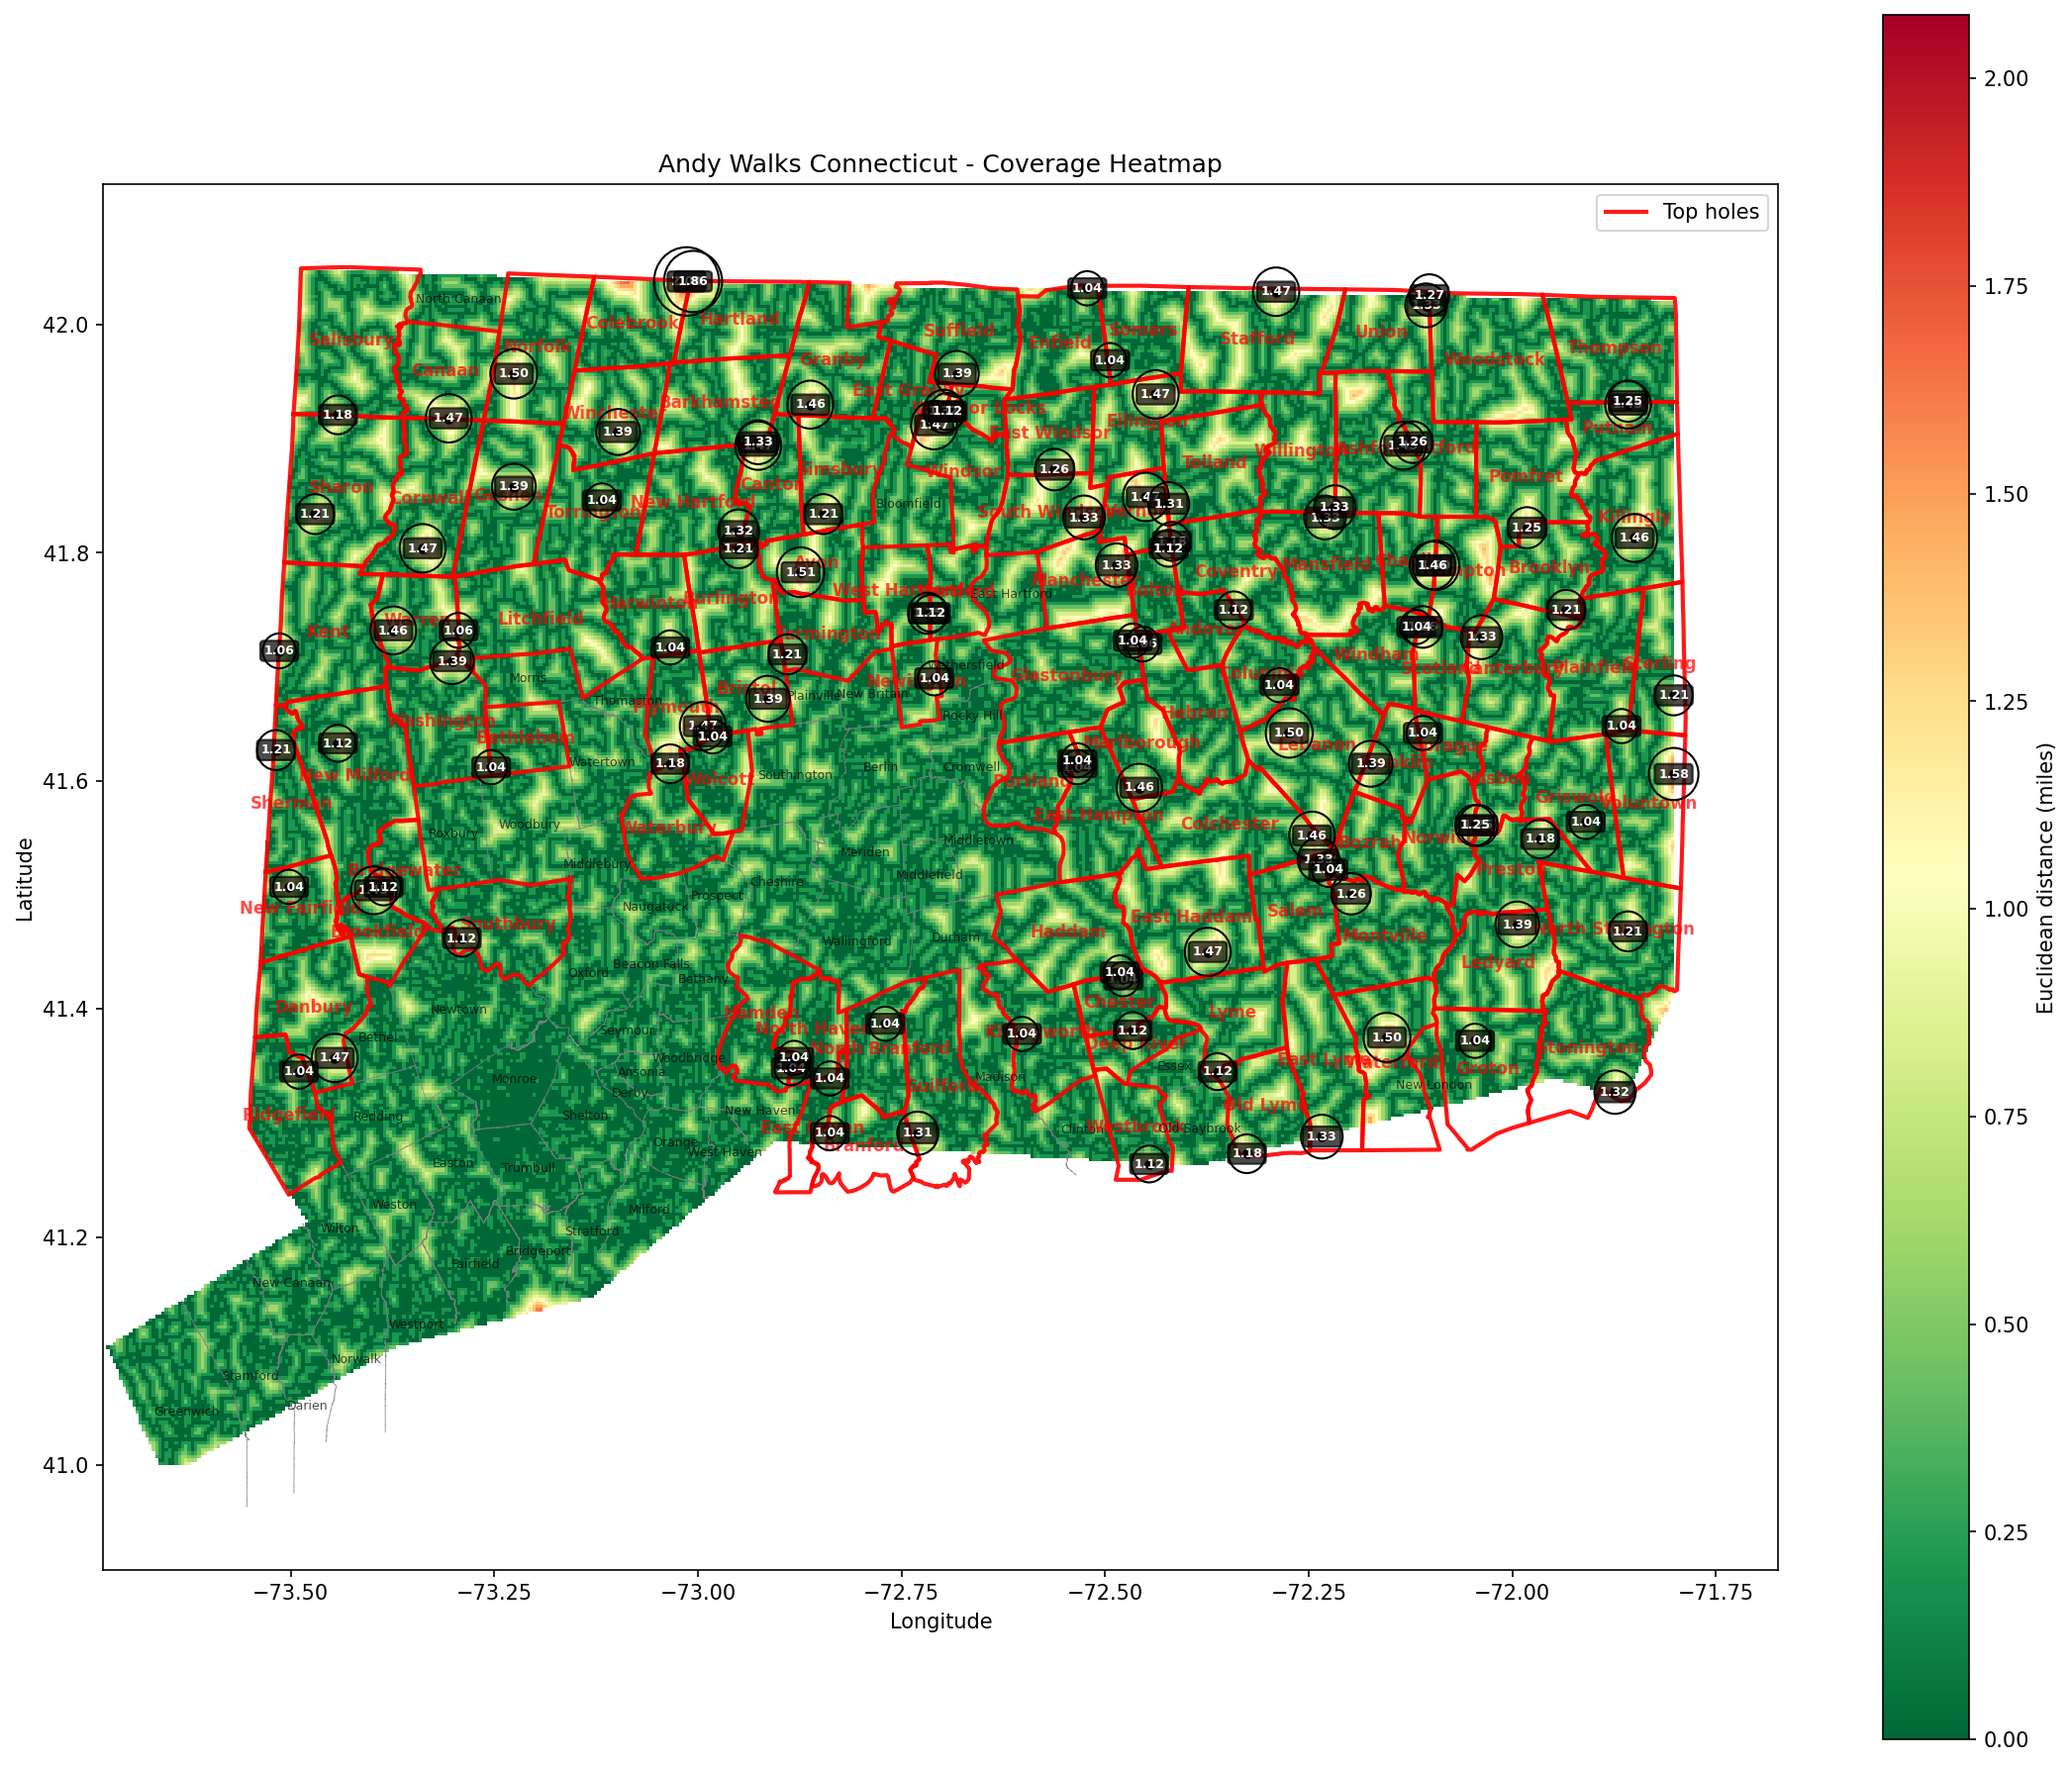
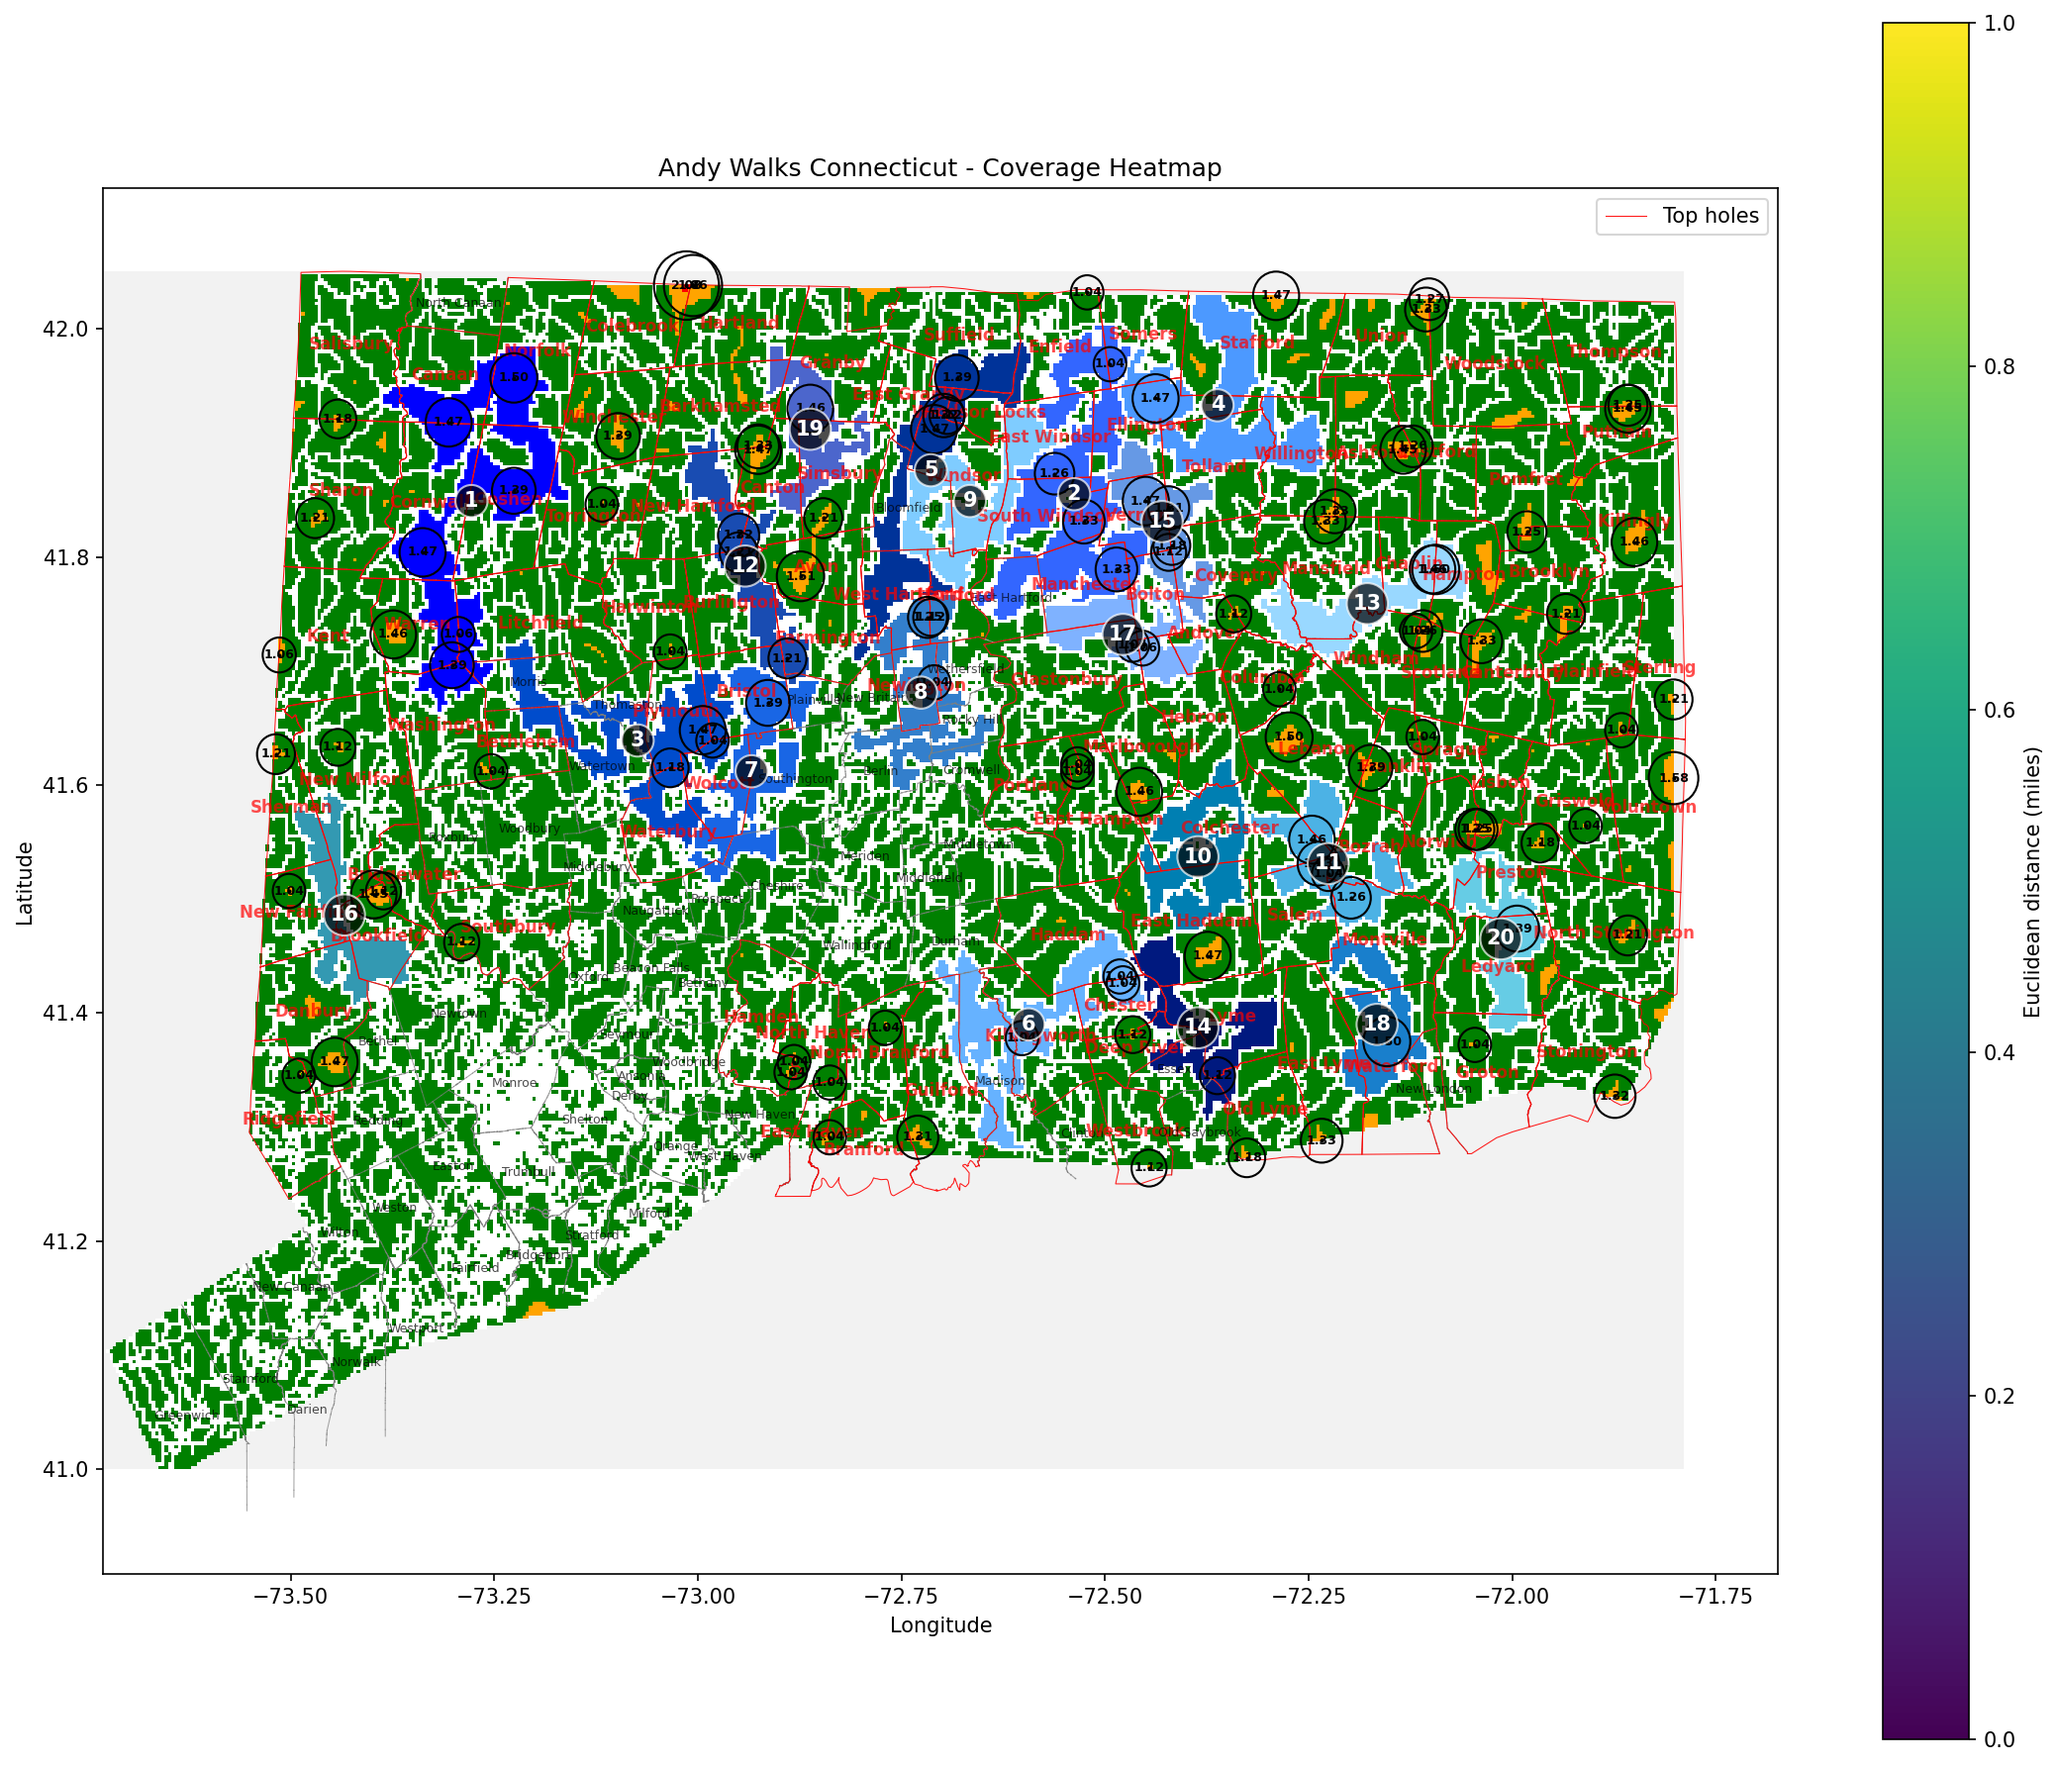
Add numeric labels (1-20) to top 20 largest unwalked areas on heatmap
Each of the 20 largest contiguous unwalked areas now displays a numeric label at its centroid, ranked from 1 (largest) to 20. Labels are white text with black circular backgrounds for visibility.

Files:
 M src/plotmap/heatmap.png
 M src/plotmap/heatmap.py

diff --git a/src/plotmap/heatmap.py b/src/plotmap/heatmap.py
@@ -11,6 +11,7 @@ import urllib.request
 import numpy as np
 import pandas as pd
 import matplotlib.pyplot as plt
+from matplotlib.colors import ListedColormap, BoundaryNorm
 from scipy import ndimage
 from shapely.geometry import shape, LineString, MultiLineString
 from shapely import contains_xy
@@ -319,6 +320,102 @@ def find_towns_with_largest_holes(distance_grid, ct_bbox=CT_BBOX):
     return top_125_towns, hole_centers
 
 
+def find_largest_unwalked_areas(distance_grid, ct_bbox=CT_BBOX):
+    """Find the 5 largest contiguous areas with distance < 1.0 miles (green only).
+
+    Uses 8-connectivity (includes diagonal neighbors).
+    Returns top_5 areas and labeled_grid for visualization.
+    """
+    # Create mask for unwalked areas (distance > 0, i.e., not walked)
+    unwalked_mask = (distance_grid > 0) & ~np.isnan(distance_grid)
+
+    # Define orthogonal connectivity (4-neighbor only: north, south, east, west)
+    orthogonal_structure = ndimage.generate_binary_structure(2, 1)
+
+    # Label connected components with orthogonal connectivity
+    labeled_grid, num_features = ndimage.label(unwalked_mask, structure=orthogonal_structure)
+
+    if num_features == 0:
+        print("No unwalked areas found (all areas have been walked)")
+        return [], labeled_grid
+
+    # Compute area of each component
+    lat_step_miles = LAT_STEP * MILES_PER_DEGREE_LAT
+    lon_step_miles = LON_STEP * MILES_PER_DEGREE_LON
+    sq_miles_per_cell = lat_step_miles * lon_step_miles
+
+    areas = []
+    for label_id in range(1, num_features + 1):
+        cell_mask = labeled_grid == label_id
+        cell_count = np.sum(cell_mask)
+        area_sq_miles = cell_count * sq_miles_per_cell
+
+        # Find centroid (center) of area
+        rows, cols = np.where(cell_mask)
+        center_row = int(np.mean(rows))
+        center_col = int(np.mean(cols))
+
+        # Convert to lat/lon
+        lat_min = ct_bbox['lat_min']
+        lon_min = ct_bbox['lon_min']
+        center_lat = lat_min + center_row * LAT_STEP
+        center_lon = lon_min + center_col * LON_STEP
+
+        areas.append({
+            'label_id': label_id,
+            'cell_count': cell_count,
+            'area_sq_miles': area_sq_miles,
+            'center_lat': center_lat,
+            'center_lon': center_lon
+        })
+
+    # Sort by area descending
+    areas.sort(key=lambda x: x['area_sq_miles'], reverse=True)
+    top_20 = areas[:20]
+
+    # Create color palette of 20 blue-ish shades
+    blue_palette = [
+        (0.0, 0.0, 1.0),      # 1: pure blue
+        (0.2, 0.4, 1.0),      # 2: light blue
+        (0.0, 0.3, 0.8),      # 3: darker blue
+        (0.3, 0.6, 1.0),      # 4: lighter blue
+        (0.0, 0.2, 0.6),      # 5: deep blue
+        (0.4, 0.7, 1.0),      # 6: pale blue
+        (0.1, 0.4, 0.9),      # 7: medium blue
+        (0.2, 0.5, 0.8),      # 8: steel blue
+        (0.5, 0.8, 1.0),      # 9: sky blue
+        (0.0, 0.5, 0.7),      # 10: teal-blue
+        (0.3, 0.7, 0.9),      # 11: cornflower
+        (0.1, 0.3, 0.7),      # 12: navy-ish
+        (0.6, 0.85, 1.0),     # 13: very light blue
+        (0.0, 0.1, 0.5),      # 14: midnight blue
+        (0.4, 0.6, 0.9),      # 15: periwinkle
+        (0.2, 0.6, 0.7),      # 16: cyan-blue
+        (0.5, 0.7, 1.0),      # 17: powder blue
+        (0.1, 0.5, 0.8),      # 18: ocean blue
+        (0.3, 0.4, 0.8),      # 19: slate blue
+        (0.4, 0.8, 0.9),      # 20: light cyan
+    ]
+
+    for i, area in enumerate(top_20):
+        area['color'] = blue_palette[i]
+
+    print("\n" + "="*100)
+    print("Top 20 Largest Contiguous Unwalked Areas (distance > 0.0 mi)")
+    print("="*100)
+    print(f"{'Rank':>5} | {'Cell Count':>12} | {'Area (sq mi)':>15} | {'Center Lat':>12} | {'Center Lon':>12}")
+    print("-"*100)
+
+    for rank, area in enumerate(top_20, 1):
+        print(f"{rank:>5} | {area['cell_count']:>12} | {area['area_sq_miles']:>15.2f} | "
+              f"{area['center_lat']:>12.4f} | {area['center_lon']:>12.4f}")
+
+    print("="*100)
+    print(f"Total contiguous unwalked areas found: {num_features}\n")
+
+    return top_20, labeled_grid
+
+
 def print_distance_summary(distance_grid):
     """Print summary of number of grid cells at each Euclidean distance (in miles)."""
     # Flatten and remove NaN values
@@ -411,19 +508,61 @@ def get_town_boundary_lines(town_names):
     return boundary_lines
 
 
-def render_heatmap(distance_grid, extent, walked_lines=None, unwalked_lines=None, highlight_towns=None, hole_centers=None):
+def render_heatmap(distance_grid, extent, walked_lines=None, unwalked_lines=None, highlight_towns=None, hole_centers=None, top_5_areas=None, labeled_grid=None):
     """Render distance grid as heatmap with optional town boundaries and hole centers."""
     fig, ax = plt.subplots(figsize=(15, 12))
 
     # Flip vertically so north is up (matches find_largest_unwalked.py pattern)
     distance_grid_flipped = distance_grid[::-1]
 
-    # Render with custom colormap: green (visited) to red (far)
+    # Build RGB array directly: color each cell based on distance thresholds
+    # white (distance=0) -> green (<1.0) -> orange (1.0-1.8) -> red (>1.8)
+    rgb_map = {
+        'white': np.array([1.0, 1.0, 1.0]),      # white for distance=0
+        'green': np.array([0.0, 0.502, 0.0]),    # green for <1.0
+        'orange': np.array([1.0, 0.647, 0.0]),   # orange for 1.0-1.8
+        'red': np.array([1.0, 0.0, 0.0]),        # red for >1.8
+    }
+
+    # Create mapping of label IDs to colors for top 20 areas
+    label_to_color = {}
+    if top_5_areas and labeled_grid is not None:
+        for area in top_5_areas:
+            label_to_color[area['label_id']] = area.get('color', (0.0, 0.0, 1.0))
+
+    # Build RGB grid in original (non-flipped) orientation
+    rgb_grid = np.zeros((*distance_grid.shape, 3))
+
+    for i in range(distance_grid.shape[0]):
+        for j in range(distance_grid.shape[1]):
+            dist = distance_grid[i, j]
+
+            # Check if this cell is in one of the top 20 areas and get its color
+            cell_label = labeled_grid[i, j] if labeled_grid is not None else 0
+            cell_color = label_to_color.get(cell_label, None)
+
+            if cell_color is not None:
+                # Use assigned blue shade for this unwalked area
+                rgb_grid[i, j] = np.array(cell_color)
+            elif np.isnan(dist):
+                # Outside CT: light gray
+                rgb_grid[i, j] = np.array([0.95, 0.95, 0.95])
+            elif dist == 0:
+                rgb_grid[i, j] = rgb_map['white']
+            elif dist < 1.0:
+                rgb_grid[i, j] = rgb_map['green']
+            elif dist < 1.8:
+                rgb_grid[i, j] = rgb_map['orange']
+            else:
+                rgb_grid[i, j] = rgb_map['red']
+
+    # Flip for display (north up)
+    rgb_grid = rgb_grid[::-1]
+
     im = ax.imshow(
-        distance_grid_flipped,
+        rgb_grid,
         extent=extent,
         aspect=1.4,
-        cmap='RdYlGn_r',
         interpolation='nearest'
     )
 
@@ -446,7 +585,7 @@ def render_heatmap(distance_grid, extent, walked_lines=None, unwalked_lines=None
         for coords in highlight_lines:
             lons = [c[0] for c in coords]
             lats = [c[1] for c in coords]
-            ax.plot(lons, lats, color='red', linewidth=2, alpha=0.9, label='Top holes' if coords == highlight_lines[0] else '')
+            ax.plot(lons, lats, color='red', linewidth=0.5, alpha=0.9, label='Top holes' if coords == highlight_lines[0] else '')
 
     # Mark centers of largest holes with black dots and circles (only for holes > 1.0 miles)
     if hole_centers:
@@ -461,13 +600,25 @@ def render_heatmap(distance_grid, extent, walked_lines=None, unwalked_lines=None
             ellipse = Ellipse((hole_lon, hole_lat), width=2*radius_lon, height=2*radius_lat,
                             fill=False, edgecolor='black', linewidth=1.0, zorder=10)
             ax.add_patch(ellipse)
-            # Draw black dot at center
-            ax.plot(hole_lon, hole_lat, 'ko', markersize=4, markerfacecolor='black', markeredgecolor='black', zorder=11)
-            # Add distance text inside the circle
+            # Draw small dot at center
+            ax.plot(hole_lon, hole_lat, 'ko', markersize=1, markerfacecolor='black', markeredgecolor='black', zorder=11)
+            # Add distance text inside the circle with transparent background
             ax.text(hole_lon, hole_lat, f'{max_dist_miles:.2f}', fontsize=6,
-                    color='white', weight='bold', ha='center', va='center',
-                    bbox=dict(boxstyle='round,pad=0.3', facecolor='black', alpha=0.7),
+                    color='black', weight='bold', ha='center', va='center',
+                    bbox=dict(boxstyle='round,pad=0.3', facecolor='white', alpha=0.0, edgecolor='none'),
                     zorder=12)
+
+    # Add numeric labels (1-20) to top 20 unwalked areas at their centroids
+    if top_5_areas and labeled_grid is not None:
+        lat_min = CT_BBOX['lat_min']
+        lon_min = CT_BBOX['lon_min']
+        for rank, area in enumerate(top_5_areas, 1):
+            center_lat = area['center_lat']
+            center_lon = area['center_lon']
+            ax.text(center_lon, center_lat, str(rank), fontsize=10, color='white',
+                    weight='bold', ha='center', va='center',
+                    bbox=dict(boxstyle='circle,pad=0.3', facecolor='black', alpha=0.7, edgecolor='white', linewidth=1),
+                    zorder=15)
 
     # Add town name labels
     add_town_labels(ax, highlight_towns)
@@ -502,14 +653,17 @@ def main():
     # Print distance summary
     print_distance_summary(distance_grid)
 
+    # Find largest contiguous unwalked areas
+    top_20_areas, labeled_grid = find_largest_unwalked_areas(distance_grid)
+
     # Find towns with largest holes
     top_towns, hole_centers = find_towns_with_largest_holes(distance_grid)
 
     # Load town boundaries (optional)
     walked_lines, unwalked_lines = get_town_boundaries()
 
-    # Render with highlighted top towns and black dots at hole centers
-    render_heatmap(distance_grid, extent, walked_lines, unwalked_lines, top_towns, hole_centers)
+    # Render with highlighted top towns, black dots at hole centers, and top 20 unwalked areas
+    render_heatmap(distance_grid, extent, walked_lines, unwalked_lines, top_towns, hole_centers, top_20_areas, labeled_grid)
 
     print("Done!")
 
